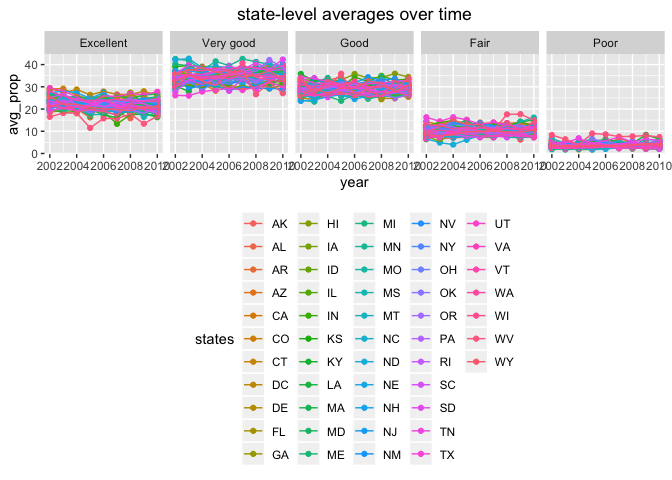
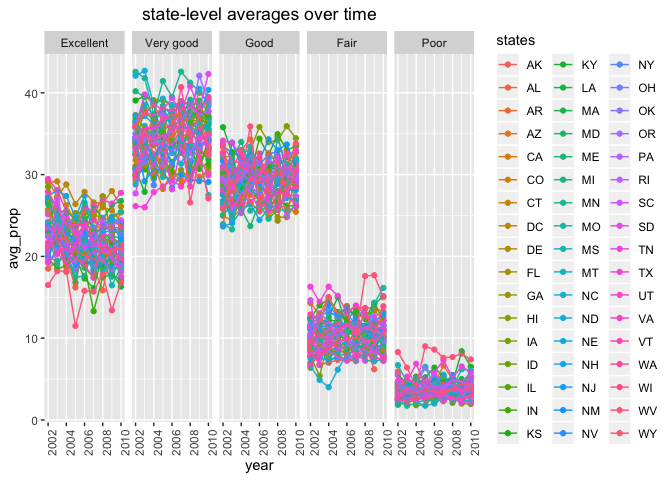
show table for Q4.

diff --git a/p8105_hw3_jz3036.md b/p8105_hw3_jz3036.md
@@ -108,7 +108,19 @@ data_p1_q4_2 =
 data_p1_q4 = left_join(data_p1_q4_2, data_p1_q4_1, by = c('year'='year', 'locationabbr'='locationabbr'))
 
 data_p1_q4 = mutate(data_p1_q4, avg_prop = mean_sum/n_loc)
+head(data_p1_q4)
 ```
+
+    ## # A tibble: 6 x 6
+    ## # Groups:   year, locationabbr [2]
+    ##    year locationabbr response  mean_sum n_loc avg_prop
+    ##   <int> <chr>        <fct>        <dbl> <int>    <dbl>
+    ## 1  2002 AK           Excellent     27.9     1     27.9
+    ## 2  2002 AK           Very good     33.7     1     33.7
+    ## 3  2002 AK           Good          23.8     1     23.8
+    ## 4  2002 AK           Fair           8.6     1      8.6
+    ## 5  2002 AK           Poor           5.9     1      5.9
+    ## 6  2002 AL           Excellent     18.5     1     18.5
 
 -   Make a five-panel plot that shows, for each response category separately, the distribution of these state-level averages over time.
 
@@ -116,7 +128,8 @@ data_p1_q4 = mutate(data_p1_q4, avg_prop = mean_sum/n_loc)
 ggplot(data_p1_q4, aes(x = year, y = avg_prop, color = locationabbr)) +
     geom_point() + geom_line() +
     facet_grid(. ~ response) +
-    theme(legend.position = "bottom", plot.title = element_text(hjust = 0.5)) +
+    theme(legend.position = "right", plot.title = element_text(hjust = 0.5),
+          axis.text.x = element_text(angle=90)) +
     labs(y = 'avg_prop', color = 'states', title = 'state-level averages over time')
 ```
 
@@ -125,3 +138,6 @@ ggplot(data_p1_q4, aes(x = year, y = avg_prop, color = locationabbr)) +
     ## Warning: Removed 1 rows containing missing values (geom_path).
 
 ![](p8105_hw3_jz3036_files/figure-markdown_github/p1_q4_2-1.png)
+
+Problem 2
+=========
